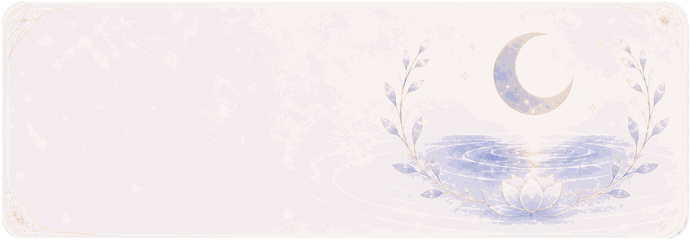
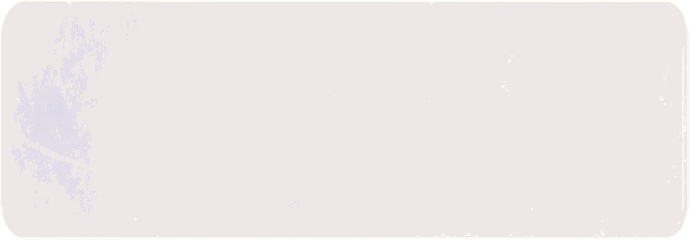
Refine home button cards and tab sizing

diff --git a/docs/ITERATION_LOG.md b/docs/ITERATION_LOG.md
@@ -98,5 +98,16 @@
 - 验证：待本次提交前运行资源尺寸检查、`node --check miniprogram/pages/index/index.js`、`python3 -m json.tool project.config.json >/dev/null`、微信开发者工具 `cli preview`。
 - 风险/待确认：背景采用 JPG 是为了在 2MB 预览包限制内保留更接近原图的颜色；需真机肉眼确认卡片铺满、Tab 图标和塔罗背面边缘。
 - 基线/对比：`git diff --stat -- miniprogram/assets/home-v2 miniprogram/pages/index/index.wxml miniprogram/pages/index/index.wxss docs/ITERATION_LOG.md`
+- 提交：`3e673eb Refine home visual assets and tab icons`
+- 远端状态：已同步到 `origin/main`
+
+## 2026-06-12 - 首页第三轮按钮与 Tab 细节修复
+
+- 页面/模块：首页 `home-v2`
+- 改动文件：`miniprogram/assets/home-v2/home-draw-button-bg.png`、`miniprogram/assets/home-v2/home-card-small-bg.png`、`miniprogram/assets/home-v2/tab-card-bg.png`、`miniprogram/pages/index/index.wxml`、`miniprogram/pages/index/index.wxss`、`docs/ITERATION_LOG.md`
+- 改动摘要：将顶部欢迎行从 `button` 改为 `view` 以保证视觉左对齐；新增抽卡按钮背景图并用 WXML 文本叠加；替换用户新提供的小卡背景和 Tab 背景；Tab 背景改为 WXML `<image>` 层，Tab icon 与字号放大。
+- 验证：待本次提交前运行资源尺寸检查、`node --check miniprogram/pages/index/index.js`、`python3 -m json.tool project.config.json >/dev/null`、微信开发者工具 `cli preview`。
+- 风险/待确认：新小卡背景源图本身装饰更弱，当前按新资源真实比例处理；需真机肉眼确认小卡高度、Tab 图标和按钮背景。
+- 基线/对比：`git diff --stat -- miniprogram/assets/home-v2 miniprogram/pages/index/index.wxml miniprogram/pages/index/index.wxss docs/ITERATION_LOG.md`
 - 提交：待提交
 - 远端状态：待用户确认是否 push
